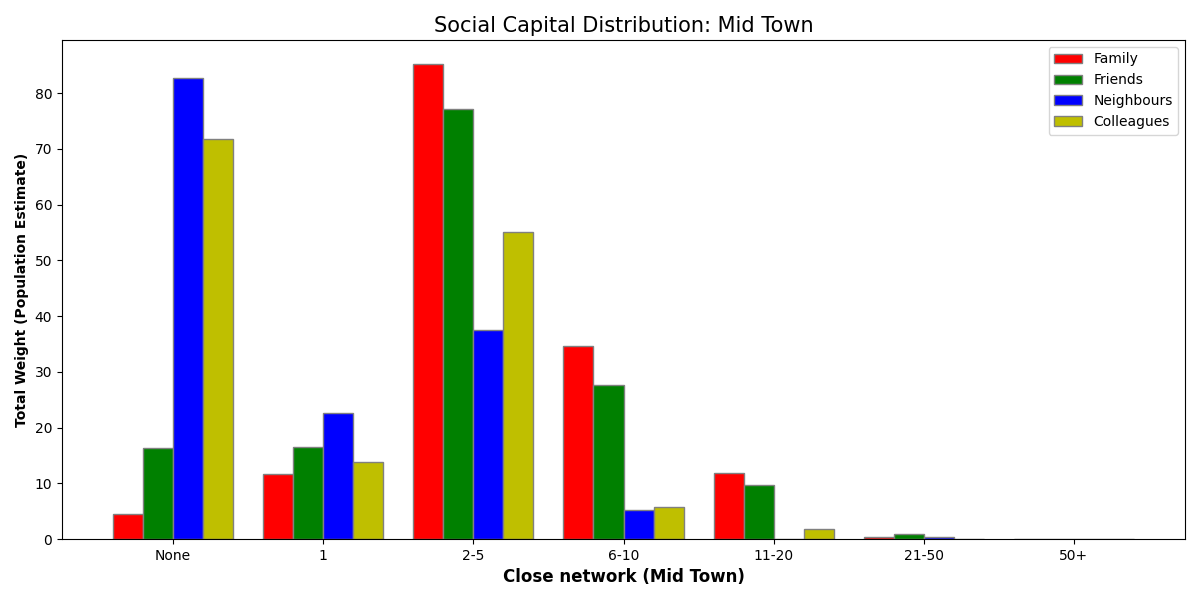
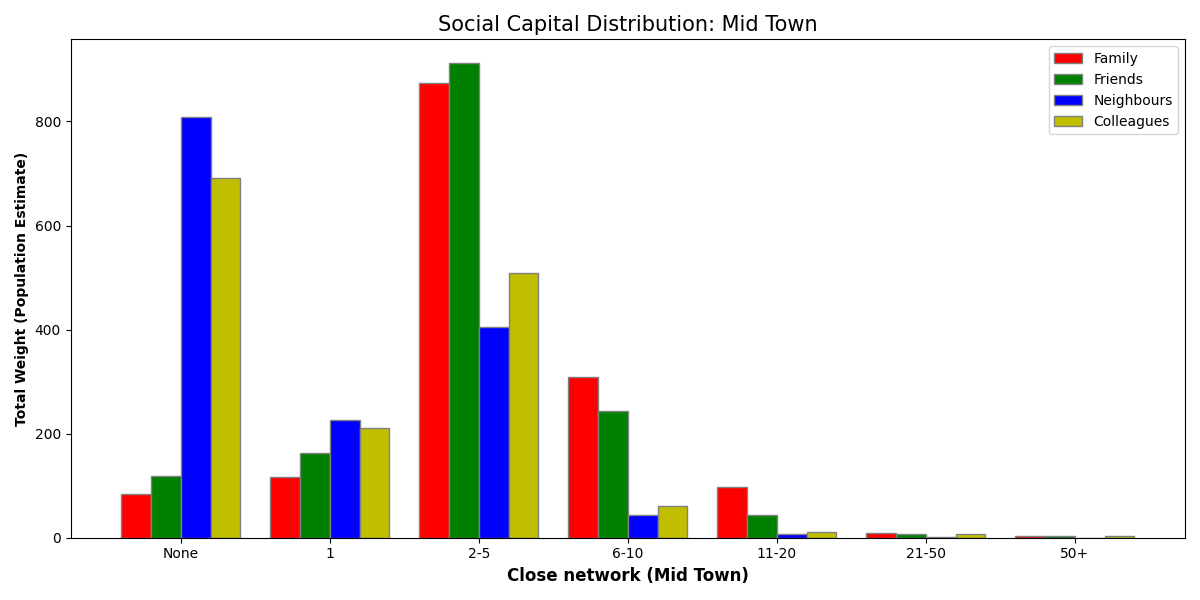
avance_proj_M

diff --git a/Code/graph/weak_strong_ties.py b/Code/graph/weak_strong_ties.py
@@ -1,9 +1,12 @@
 import pandas as pd
 import matplotlib.pyplot as plt
+import os
 
+# 1. Chargement des données
 file = 'Data/cleaned_data_no_na.csv'
 capsoc = pd.read_csv(file)
 
+# 2. Définition des masques et de l'ordre souhaité
 masks = {
     "Rural": capsoc['living_place'] == 1,
     "Small Town": (capsoc['living_place'] >= 2) & (capsoc['living_place'] <= 3),
@@ -12,46 +15,47 @@ masks = {
     "Metropolis": capsoc['living_place'] >= 7
 }
 
-mapping_fin_job = {1:'Close family',
-                   2: 'Distant family',
-                   3: 'Close friends',
-                   4: 'Neighbors',
-                   5: 'Colleagues',
-                   6: 'Someone else',
-                   7: 'No one',
-                   8: "Can't choose"}
+# Ordre spécifique demandé
+location_order = ["Large City", "Metropolis", "Mid Town", "Small Town", "Rural"]
 
+mapping_fin_job = {1:'Close family', 2: 'Distant family', 3: 'Close friends',
+                   4: 'Neighbors', 5: 'Colleagues', 6: 'Someone else',
+                   7: 'No one', 8: "Can't choose"}
 
-capsoc['find_job_cat'] = capsoc['find_job'].map(mapping_fin_job)
+# 3. Préparation des variables catégorielles
 capsoc['find_job_cat'] = pd.Categorical(
-    capsoc['find_job_cat'],
+    capsoc['find_job'].map(mapping_fin_job),
     categories=list(mapping_fin_job.values()),
     ordered=True
 )
 
-interest_var = 'find_job_cat'
-
-# Create a location column for grouping
+# Attribution des labels de localisation
 location_labels = pd.Series(index=capsoc.index, dtype='object')
 for location, mask in masks.items():
     location_labels[mask] = location
 
-capsoc['location'] = location_labels
+# Application de l'ordre spécifique sur la colonne location
+capsoc['location'] = pd.Categorical(location_labels, categories=location_order, ordered=True)
 
-# Calculate weighted counts for all combinations
-weighted_counts = capsoc.groupby([interest_var, 'location'])['weight'].sum().unstack(fill_value=0)
+interest_var = 'find_job_cat'
 
-# Plot grouped bar chart
+# 4. Calculs pondérés et normalisation (Proportions)
+weighted_counts = capsoc.groupby([interest_var, 'location'], observed=False)['weight'].sum().unstack(fill_value=0)
+weighted_proportions = weighted_counts.div(weighted_counts.sum(axis=0), axis=1) * 100
+
+# 5. Plot
 fig, ax = plt.subplots(figsize=(14, 6))
-weighted_counts.plot(kind='bar', ax=ax, edgecolor='black')
+weighted_proportions.plot(kind='bar', ax=ax, edgecolor='black')
 
 # Mise en forme
-plt.title(f'Weighted Distribution of {interest_var} by Location Type', fontsize=14)
+plt.title('Proportion of Job Search Methods by Location Type', fontsize=14)
 plt.xlabel(interest_var, fontsize=12)
-plt.ylabel('Total Weight (Population Estimate)', fontsize=12)
+plt.ylabel('Percentage (%)', fontsize=12)
 plt.xticks(rotation=45, ha='right')
 plt.legend(title='Location Type', bbox_to_anchor=(1.05, 1), loc='upper left')
 plt.grid(axis='y', linestyle='--', alpha=0.7)
-
 plt.tight_layout()
+
+
+plt.savefig('outputs/histograms_ties/distribution_job_location.png', dpi=300)
 plt.show()

diff --git a/Code/graph/Generating_graphs_close.py b/Code/graph/Generating_graphs_close.py
@@ -7,10 +7,9 @@ file = 'Data/cleaned_data_no_na.csv'
 capsoc = pd.read_csv(file)
 
 masks = {
-    "Rural": capsoc['living_place'] == 1,
-    "Small Town": (capsoc['living_place'] >= 2) & (capsoc['living_place'] <= 3),
-    "Mid Town": capsoc['living_place'] == 4,
-    "Large City": (capsoc['living_place'] >= 5) & (capsoc['living_place'] <= 6),
+    "Rural": capsoc['living_place'] == 0,
+    "Small Town": (capsoc['living_place'] >= 1) & (capsoc['living_place'] <= 3),
+    "Mid Town": capsoc['living_place'] >= 4 & (capsoc['living_place'] <= 6),
     "Metropolis": capsoc['living_place'] >= 7
 }
 
@@ -67,3 +66,4 @@ for title, mask in masks.items():
     #plt.show()
 
     plt.savefig(f'outputs/histograms_close/social_capital_{title.lower().replace(" ", "_")}.png')
+    
